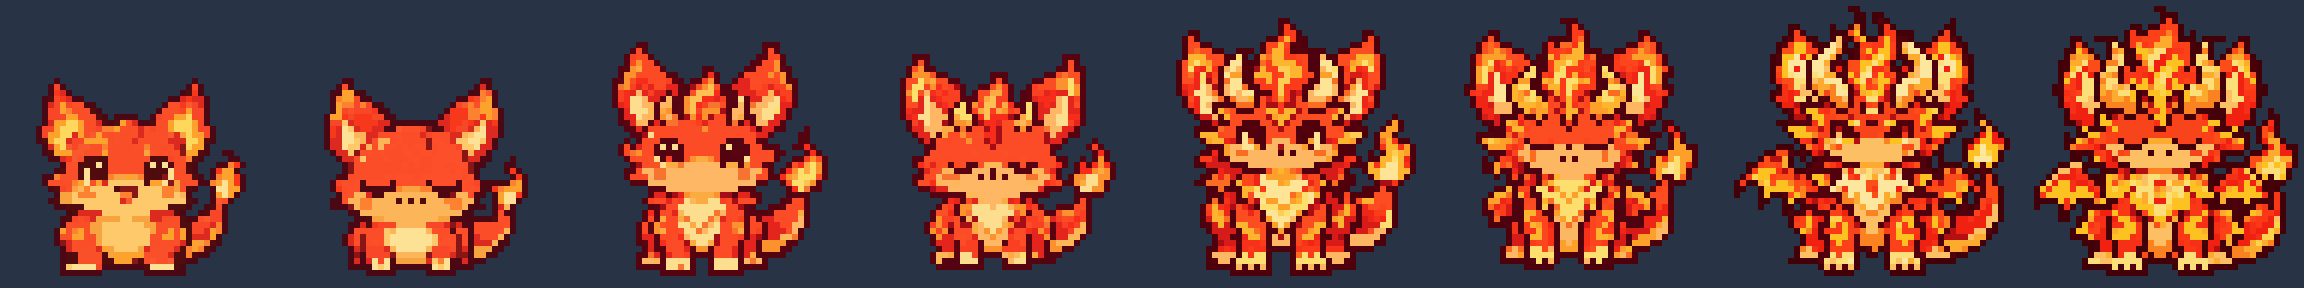
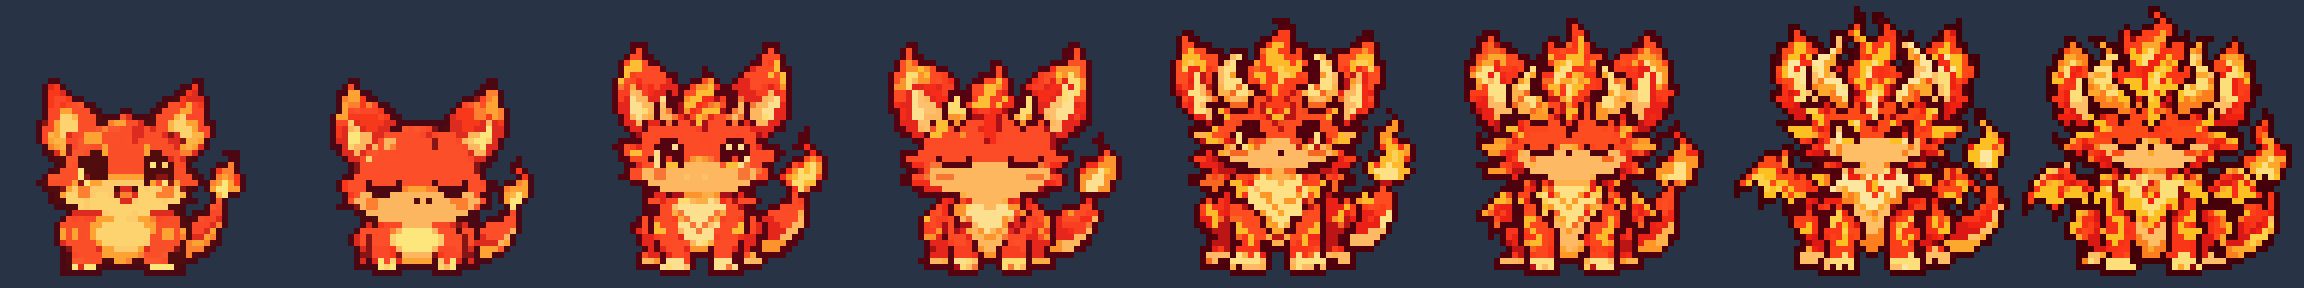
V1.14.0: 水系換成手繪造型；轉圖工具支援白底、去碎點、各自縮放
Claude-Session: https://claude.ai/code/session_01Asf9UbikJHEseEPnq7CYMU

diff --git a/index.html b/index.html
@@ -179,7 +179,7 @@ body.rm *{transition:none!important;animation:none!important}
    幻獸日記 Pixel Familiar — V1.3
    單一檔案：遊戲邏輯 + 程式化 16-bit 像素 sprite sheet 產生器
    ========================================================= */
-const VERSION='1.13.0';
+const VERSION='1.14.0';
 const SAVE_KEY='pixel-familiar-save',BACKUP_KEY='pixel-familiar-save-backup',LEGACY_KEY='pixel-familiar-v1',TIP_KEY='pixel-familiar-tip-closed';
 const W=128,H=112,CELL=48,PET_X=40,PET_Y=56;           // 場景邏輯解析度與角色格位置
 const $=id=>document.getElementById(id);
@@ -424,7 +424,7 @@ function eggColors(key){if(!key.startsWith('egg|'))return{shell:'#fff1d0',shellD
  return{shell:hsl(eh[0],Math.min(60,eh[1]),90),shellD:hsl(eh[0],Math.min(50,eh[1]),74),spot:E.b,spotD:E.d,hole:E.b}}
 function sheet(key){return SHEETS[key]||buildSheet(key)}
 /* ---------------- 手繪造型（tools/import_art.py 產生的 48×48 圖）：有圖的屬性用圖，其餘用程式繪製 ---------------- */
-const ART_ELS=['flame'];                    // 已經有手繪圖的屬性
+const ART_ELS=['flame','tide'];                    // 已經有手繪圖的屬性
 const ART={};                               // ART[屬性][階段1-4]={open,closed}
 let artPending=0;
 function loadArt(){for(const el of ART_ELS){ART[el]={};for(let st=1;st<=4;st++){ART[el][st]={};for(const eye of['open','closed']){

diff --git a/sw.js b/sw.js
@@ -1,9 +1,9 @@
 // 幻獸日記 Service Worker — 離線快取
 // 更新遊戲時，請把 VERSION 改成新版本號，iPhone 才會換成新檔案。
-const VERSION = 'pf-1.13.0';
+const VERSION = 'pf-1.14.0';
 const CORE = ['./', './index.html', './game-core.js'];
 const EXTRA = ['./manifest.webmanifest', './icon-180.png', './icon-192.png', './icon-512.png',
-  ...[1,2,3,4].flatMap(n => ['open','closed'].map(e => `./sprites/flame_${n}_${e}.png`))];
+  ...['flame','tide'].flatMap(el => [1,2,3,4].flatMap(n => ['open','closed'].map(e => `./sprites/${el}_${n}_${e}.png`)))];
 
 self.addEventListener('install', e => {
   e.waitUntil((async () => {

diff --git a/tools/import_art.py b/tools/import_art.py
@@ -19,6 +19,7 @@ from PIL import Image
 ROOT = os.path.dirname(os.path.dirname(os.path.abspath(__file__)))
 CELL = 48
 MODE = os.environ.get('MODE', 'center')
+KEEP_FRAC = 0.04           # 比最大塊小很多的碎點（閃光、水花）不算進角色
 DARK = 0.42                # 區塊裡深色超過這個比例才畫成線條
 GROUND = 46               # 腳底所在的列
 FIT = {1: (35, 33), 2: (39, 39), 3: (44, 43), 4: (48, 45)}   # 各階段最大 寬、高
@@ -26,9 +27,26 @@ STAGES = {1: 'juvenile', 2: 'teen', 3: 'adult', 4: 'ascended'}
 
 
 def mask_of(a):
+    """前景遮罩：背景（綠底或白底，看四個角）只算跟邊緣相連的部分，再去掉飄在旁邊的小碎點。"""
+    from scipy import ndimage
     r, g, b = a[..., 0].astype(int), a[..., 1].astype(int), a[..., 2].astype(int)
-    green = (g > 150) & (g - r > 70) & (g - b > 70)
-    return ~green
+    corner = a[:8, :8].reshape(-1, 3).mean(0)
+    if corner[1] > 150 and corner[1] - corner[0] > 70:          # 綠底
+        bg = (g > 150) & (g - r > 70) & (g - b > 70)
+    else:                                                        # 白底（或其他淺色底）
+        bg = (np.abs(a.astype(int) - corner).sum(-1) < 45)
+    lab, n = ndimage.label(bg)
+    border = set(np.unique(np.concatenate([lab[0], lab[-1], lab[:, 0], lab[:, -1]]))) - {0}
+    bg_conn = np.isin(lab, list(border))
+    if (g > 150).any():                                          # 綠色溢色：被包住的純綠也算背景
+        bg_conn |= (g > 200) & (g - r > 120) & (g - b > 120)
+    fg = ~bg_conn
+    lab, n = ndimage.label(fg)
+    if n > 1:
+        sizes = ndimage.sum(fg, lab, range(1, n + 1))
+        keep = [i + 1 for i, s in enumerate(sizes) if s >= sizes.max() * KEEP_FRAC]
+        fg = np.isin(lab, keep)
+    return fg
 
 
 def load(path):
@@ -112,21 +130,24 @@ def process(el):
         for eye in ('open', 'closed'):
             p = os.path.join(src, f'{el}_{st}_{name}_{eye}.png')
             pair[eye] = load(p)
-        boxes = [bbox(m) for _, m in pair.values()]
-        box = (min(b[0] for b in boxes), min(b[1] for b in boxes), max(b[2] for b in boxes), max(b[3] for b in boxes))
-        bw, bh = box[2] - box[0], box[3] - box[1]
+        # 每張各自裁切、縮放（AI 畫的睜眼／閉眼兩張大小常常不一樣），再以腳底中央對齊
+        imgs, sizes = [], []
         mw, mh = FIT[st]
-        k = min(mw / bw, mh / bh)
-        tw, th = max(1, round(bw * k)), max(1, round(bh * k))
-        ox, oy = (CELL - tw) // 2, GROUND - th
-        imgs = [downsample(a, m, box, tw, th, ox, oy) for a, m in pair.values()]
+        for a, m in pair.values():
+            box = bbox(m)
+            bw, bh = box[2] - box[0], box[3] - box[1]
+            k = min(mw / bw, mh / bh)
+            tw, th = max(1, round(bw * k)), max(1, round(bh * k))
+            imgs.append(downsample(a, m, box, tw, th, (CELL - tw) // 2, GROUND - th))
+            sizes.append(f'{tw}x{th}')
+        tw, th, bw, bh = sizes, '', '', ''
         imgs, pal = quantize(imgs)
         outline_col = min(pal.tolist(), key=lambda c: lum(c))
         imgs = [add_outline(im, outline_col) for im in imgs]
         for eye, im in zip(pair.keys(), imgs):
             Image.fromarray(im, 'RGBA').save(os.path.join(outdir, f'{el}_{st}_{eye}.png'), optimize=True)
             previews.append(im)
-        print(f'{el} {st} {name}: {tw}x{th} 原圖 {bw}x{bh}')
+        print(f'{el} {st} {name}: {tw}')
     # 預覽：8 張排一列，放大 6 倍，棋盤底
     sc = 6
     pv = Image.new('RGBA', (CELL * sc * len(previews), CELL * sc), (40, 52, 70, 255))

diff --git a/docs/CHANGELOG.md b/docs/CHANGELOG.md
@@ -1,5 +1,9 @@
 # 更新紀錄 Changelog
 
+## V1.14.0（2026-11-16）— 水系換成手繪造型
+- 水系 4 個階段改用 GPT 設計的六角恐龍造型（`sprites/tide_*`，原圖在 `art/src/tide/`）。
+- 轉圖工具更新：白底的圖也能自動去背；飄在旁邊的小閃光、水花會自動去掉；睜眼、閉眼各自縮放再以腳底對齊，兩張大小不同也不會跳動。
+
 ## V1.13.0（2026-11-16）— 火系換成手繪造型
 - 火系 4 個階段（幼年、少年、成年、高階）改用 GPT 設計的造型，由 `tools/import_art.py` 轉成 48×48 像素圖（`sprites/`），原圖保存在 `art/src/flame/`。
 - 只用睜眼、閉眼兩張圖，程式自動做出 19 個動畫畫格：待機呼吸、眨眼、吃東西、跳、洗澡、睡覺、開心、難過、疲倦、害羞。
